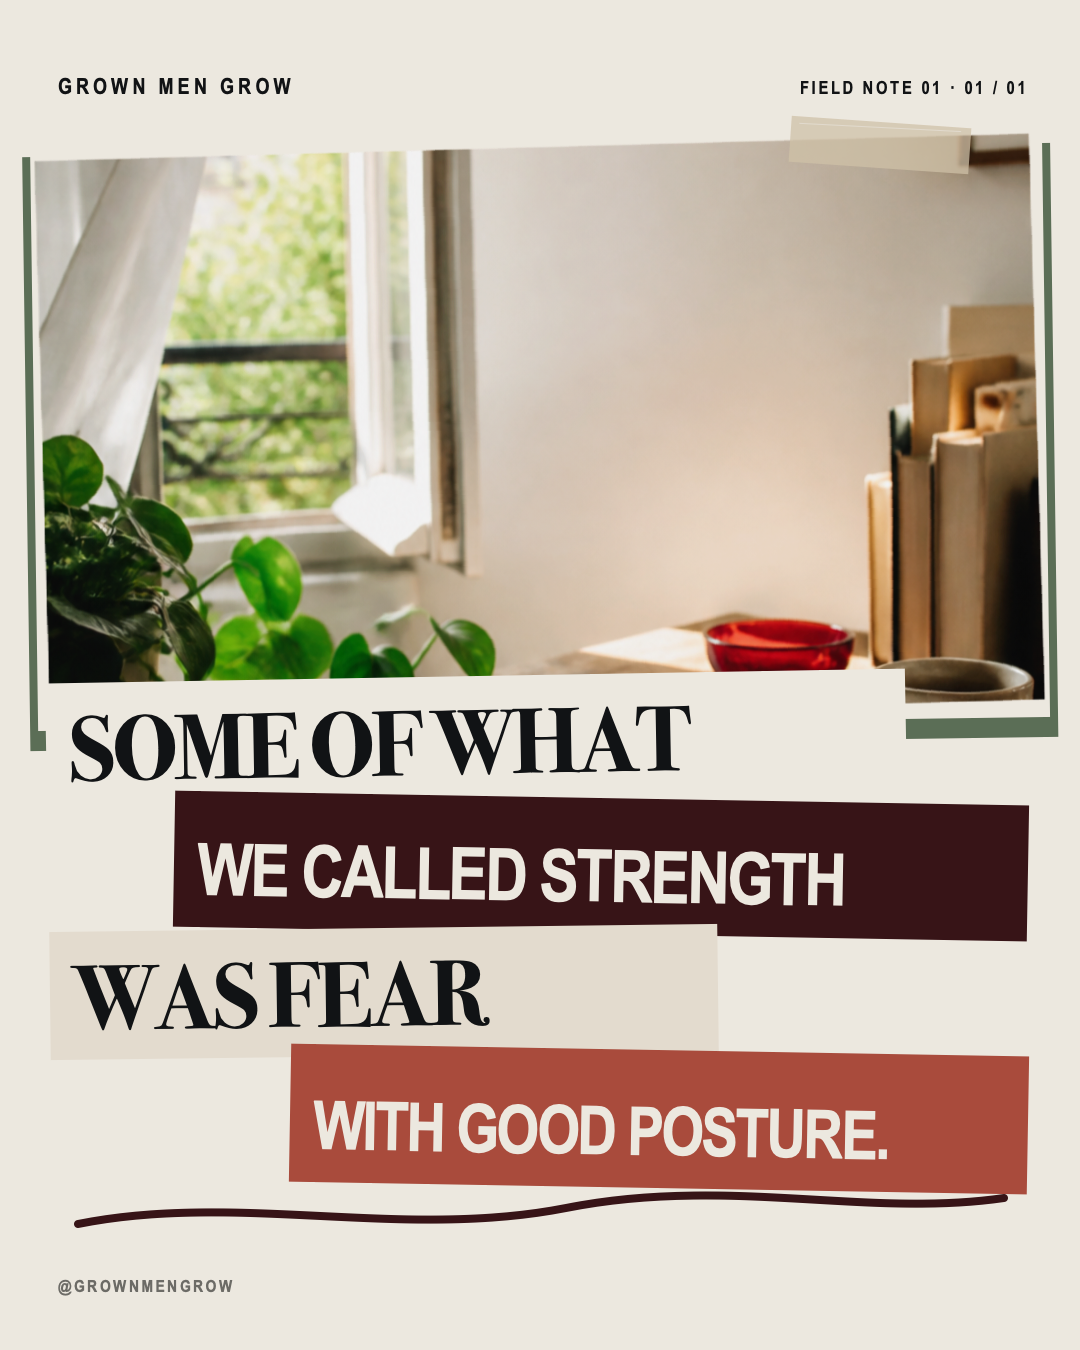
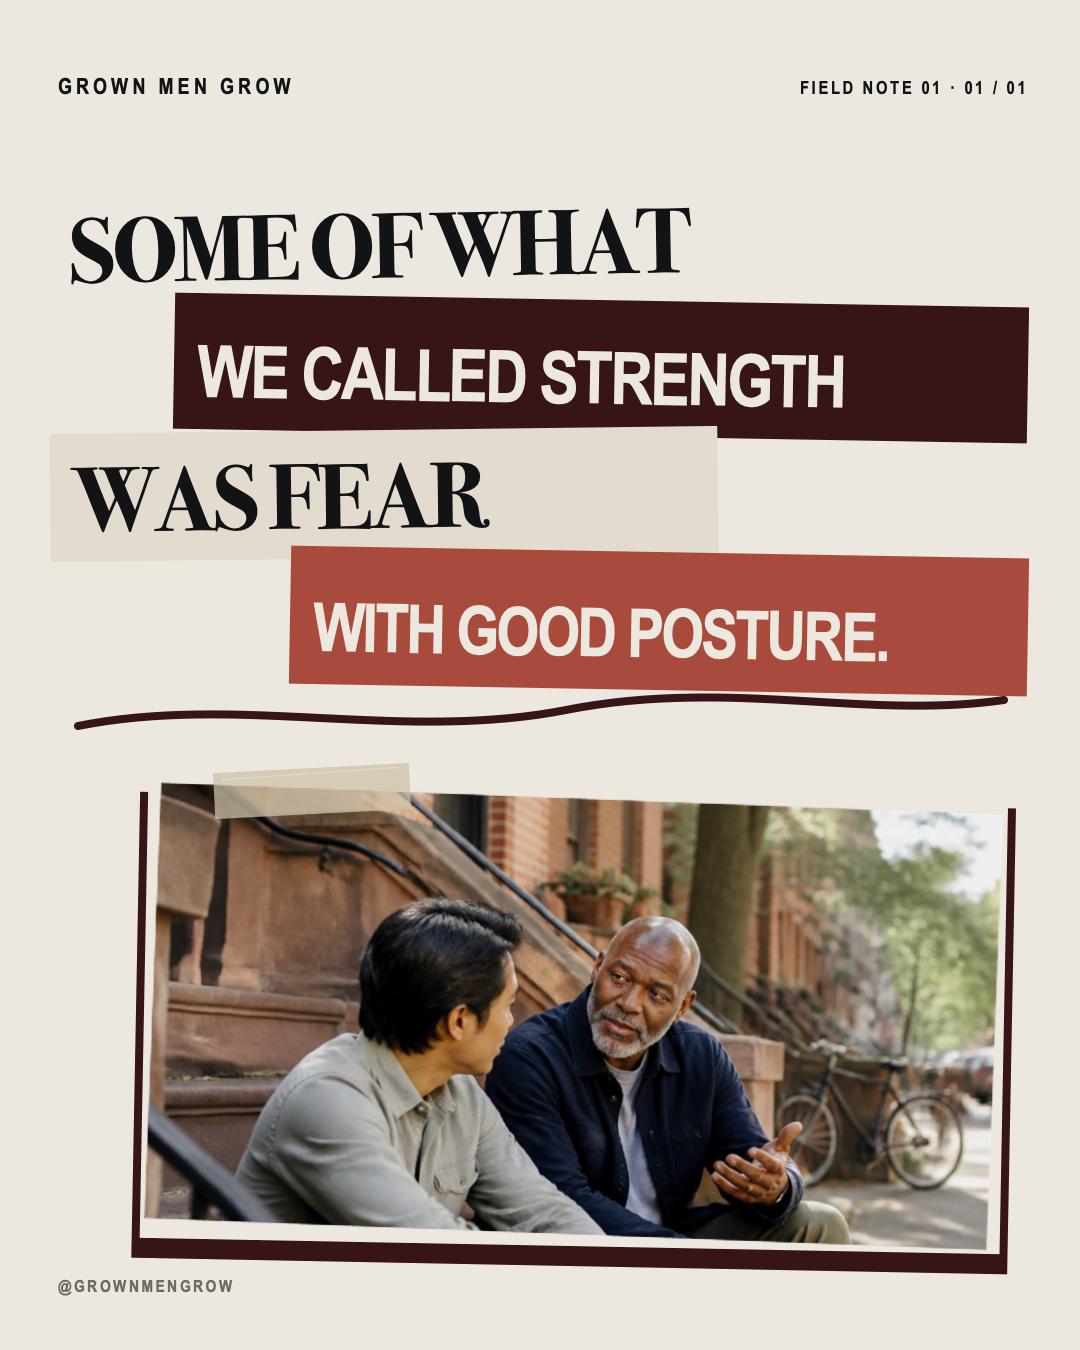
fix(assets): recompose the launch static post so the feed repeat stops existing (#91)
* docs: record the Saturday draft run and the feed-tile gate

* fix(assets): recompose the launch static post so the feed repeat stops existing

The founder authorised repairing the repeat rather than living with it.
The static post moves from sunlit-writing-table.png in a wide top band —
the Recognition cover's photograph in nearly its rectangle, overlap 0.88
— to friends-in-conversation.png, used by no other grid tile, with the
skeleton inverted: type on top, one image block anchored low. Approved
copy is untouched; only art direction moved.

KNOWN_TILE_REPEATS is now empty. The gate passes with no exception,
which is a stronger state than passing with one.

Alt text in the launch package described the old composition; corrected
here rather than left to drift.

diff --git a/AGENTS.md b/AGENTS.md
@@ -46,7 +46,7 @@ Run these before committing material changes:
 6. `bash scripts/verify-svg-xml.sh`
 7. Review `git diff --check` and the complete staged file list.
 
-CI repeats the Ghost theme, repository, and SVG verification. The repository check also enforces feed-tile distinctness (added 2026-08-16 after a repeat reached the Instagram grid): no two grid-facing assets may place the same source photograph in effectively the same frame. Known pairs are recorded in `KNOWN_TILE_REPEATS` with a stated reason, one pair per entry. Security workflows run Semgrep, secret scanning, and an OSV dependency scan of `theme/pnpm-lock.yaml` that fails on any known vulnerability. Accepted risks live in the root `osv-scanner.toml`, each with a stated rationale and an expiry date; the file sits at the root rather than beside the lockfile because every tracked file under `theme/` ships inside the published theme zip. One entry is live: extract-zip 2.0.1 (GHSA-jmr9-qjv8-65gv), expiring 2026-11-09, at which point the gate fails again and the risk must be re-accepted on that day's facts. An advisory Claude review runs on every same-repo PR via `claude-review.yml`, which deliberately calls the fleet reusable at `@main` — one merge updates every repo. It activates only when the `CLAUDE_CODE_OAUTH_TOKEN` secret is present — reviews bill the owner's Claude subscription, not Console credits; fork PRs never receive secrets, so they skip it by security design. The unused root `vercel.json` is retained solely because it is a fleet-conformance artifact; it is not the publication's hosting configuration.
+CI repeats the Ghost theme, repository, and SVG verification. The repository check also enforces feed-tile distinctness (added 2026-08-16 after a repeat reached the Instagram grid): no two grid-facing assets may place the same source photograph in effectively the same frame. Known pairs may be recorded in `KNOWN_TILE_REPEATS` with a stated reason, one pair per entry; it is currently empty and an entry there means a repeat somebody decided to live with, not one somebody fixed. Security workflows run Semgrep, secret scanning, and an OSV dependency scan of `theme/pnpm-lock.yaml` that fails on any known vulnerability. Accepted risks live in the root `osv-scanner.toml`, each with a stated rationale and an expiry date; the file sits at the root rather than beside the lockfile because every tracked file under `theme/` ships inside the published theme zip. One entry is live: extract-zip 2.0.1 (GHSA-jmr9-qjv8-65gv), expiring 2026-11-09, at which point the gate fails again and the risk must be re-accepted on that day's facts. An advisory Claude review runs on every same-repo PR via `claude-review.yml`, which deliberately calls the fleet reusable at `@main` — one merge updates every repo. It activates only when the `CLAUDE_CODE_OAUTH_TOKEN` secret is present — reviews bill the owner's Claude subscription, not Console credits; fork PRs never receive secrets, so they skip it by security design. The unused root `vercel.json` is retained solely because it is a fleet-conformance artifact; it is not the publication's hosting configuration.
 
 ## Shared handoff log
 

diff --git a/docs/technical/decision-log.md b/docs/technical/decision-log.md
@@ -562,3 +562,11 @@
 - **One pair is recorded, not fixed, and that is deliberate.** Both files are founder-approved artwork and the second has already posted. It cannot be unposted, and re-cropping approved artwork is the founder's call, not an unattended task's. The entry names the pair and nothing else.
 - **A near-miss the founder should see.** The Reel cover and the foundational carousel cover also share `repairing-wooden-chair.png`, at overlap 0.62 — below the limit and genuinely differently composed, but on the same photograph. The Reel has never posted. Recorded rather than smoothed over, because the limit was chosen partly by where that pair sits.
 - **Seeded where the decision is actually made.** The repository gate cannot see what Buffer has already sent. `gmg-monday-staging` now runs a feed-tile check before queueing anything to Instagram: run the repository gate, then compare this week's tile against the most recent Instagram post in Buffer's sent queue, and stop rather than queue a repeat.
+
+## 2026-08-16 — the repeated tile is fixed at the source, so the gate carries no exception
+
+- **Status:** Founder authorised the repair the same day the gate landed: "You are authorized to delete the last instagram post and repost, albeit late, with the fix in place."
+- **The static post is recomposed, not excepted.** It carried `sunlit-writing-table.png` in a wide band across the top — the same photograph in nearly the same rectangle as the Recognition cover posted two days earlier, overlap 0.88. It now carries `friends-in-conversation.png`, which no other grid tile uses, and the skeleton is inverted: the four type strips move to the top and a single image block anchors low. Approved copy is untouched; only art direction moved.
+- **`KNOWN_TILE_REPEATS` is now empty, and that is the point.** The morning's entry existed because the artwork was the founder's to change and an unattended task should not have changed it. With the authorisation given, the honest fix removes the collision rather than recording it forever. The gate passes with no exception at all, which is a stronger state than passing with one.
+- **Deletion of the live post was not performed and cannot be.** Instagram's Graph API exposes no endpoint for deleting published media, and Buffer can only remove its own queue records, so the action is app-only regardless. It is also an irreversible deletion of published content along with its engagement history — the kind of action this repository's agents hand back to the founder rather than take. The replacement post is built and verified; posting it before the original is removed would put two versions in the grid at once, so the order is founder deletes, then the repost fires.
+- **Docs rode along.** `content/instagram/launch-package.md` carried alt text describing the old composition; corrected in the same change set.

diff --git a/content/instagram/launch-package.md b/content/instagram/launch-package.md
@@ -325,7 +325,7 @@ Enter alt text per carousel image where Instagram exposes the control. Preserve 
 
 ### Static post
 
-**Bright writing-table collage with layered text reading: “Some of what we called strength was fear with good posture.”**
+**Layered cream, oxblood, and rust type stack reading “Some of what we called strength was fear with good posture,” above a taped photograph of two adult male friends talking on sunlit front steps.**
 
 ### Reel cover
 
